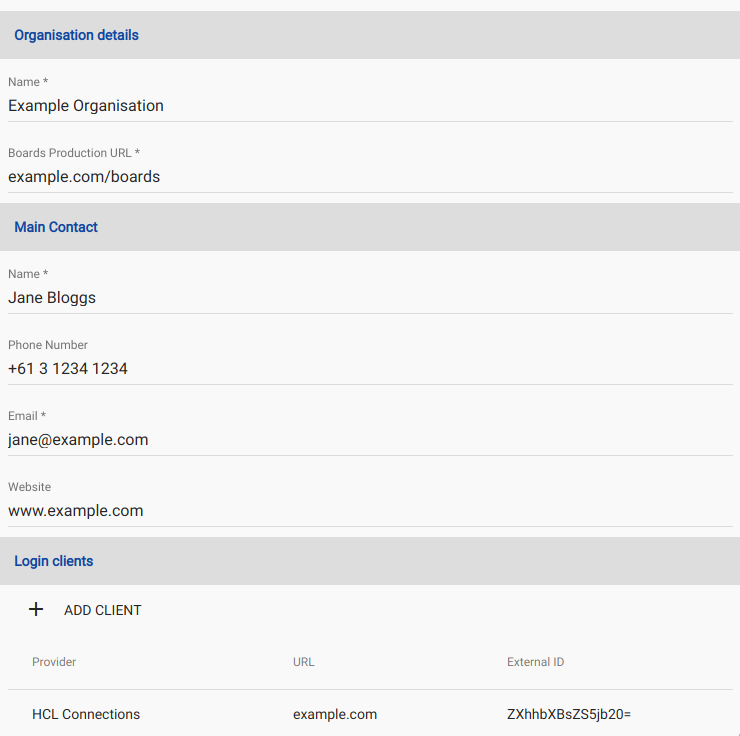
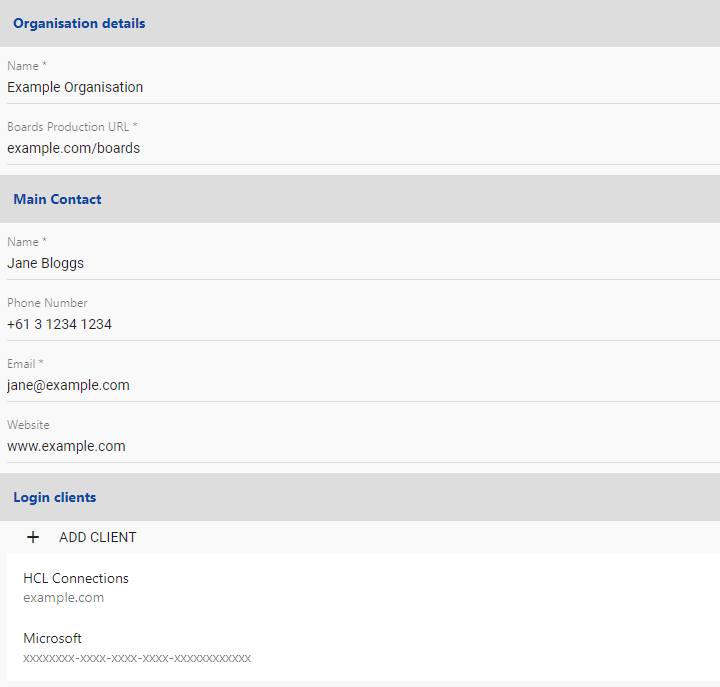
Store details update

diff --git a/docs/boards/cp/store.md b/docs/boards/cp/store.md
@@ -10,13 +10,13 @@ All customers are eligible for a free licence to use our Activity view.
 
 Obtaining your licence key:
 
-1. Register for oue store with your Name and email address.
+1. Register for our store with your Name and email address.
 
 1. Click the link in the email we sent to verify your account.
 
 1. Create Your Organisation and Login client, details below.
 
-1. Click `Create Free Licence`
+1. Click `Create Activities+ Licence`
 
 1. Click `Download Licences`
 
@@ -30,7 +30,7 @@ You will need to provide the following information to setup you Organisation in 
 
 When creating your Login client(s) refer to the table below for details:
 
-| Provider        | URL                  | External ID               |
-| --------------- | -------------------- | ------------------------- |
-| HCL Connections | Your connections url | Not required              |
-| Microsoft 365   | Not required         | Your Office 365 tenant id |
+| Provider        | Text Field                |
+| --------------- | ------------------------- |
+| HCL Connections | Your Connections URL      |
+| Microsoft 365   | Your Office 365 tenant ID |
